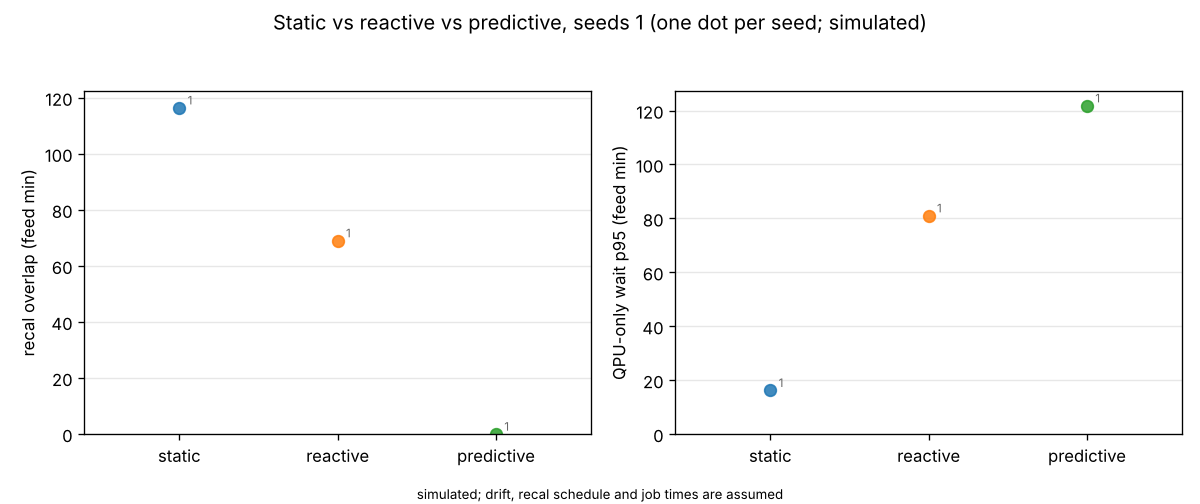
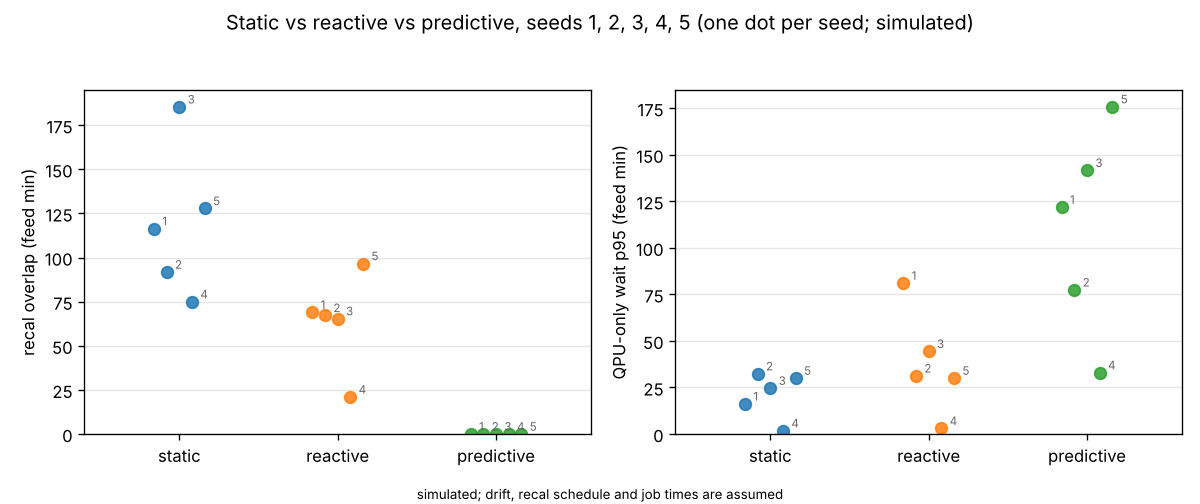
Sweep aggregate, seeds 1-5 (simulated)
Generated by policy/aggregate.py and policy/plot_sweep.py at the end of
make sweep; no manual edits.

diff --git a/results/sweep_table.md b/results/sweep_table.md
@@ -4,17 +4,17 @@ Median across seeds, with [min–max] across seeds. Drift, recal schedule and jo
 
 p95 is the value at index int(0.95·n) of the sorted waits, so for n ≤ 20 it is the maximum: one job. Every QPU job is submitted held under predictive; the gate rows count jobs it kept held (no QPU fitted) at least once.
 
-| Metric | static (seeds 1) | reactive (seeds 1) | predictive (seeds 1) |
+| Metric | static (seeds 1,2,3,4,5) | reactive (seeds 1,2,3,4,5) | predictive (seeds 1,2,3,4,5) |
 |---|---|---|---|
-| Recal-overlap jobs | 6 | 2 | 0 |
-| Recal overlap (feed min) | 116.4 | 69 | 0 |
-| QPU-only wait median (feed min) | 0 | 0 | 2.4 |
-| QPU-only wait p95 (feed min) | 16.2 | 81 | 121.8 |
-| Hybrid wait p95 (feed min) | 1.2 | 6 | 156 |
-| Classical wait p95 (feed min) | 1.2 | 1.2 | 13.2 |
-| Completion median (feed min) | 22.2 | 22.2 | 32.4 |
-| Completion p95 (feed min) | 79.2 | 111.6 | 172.8 |
-| Jobs completed | 55 | 55 | 55 |
-| Submit rejections | 0 | 0 | 0 |
-| Gate: jobs kept held at least once | 0 | 0 | 7 |
-| Gate: re-holds | 0 | 0 | 0 |
+| Recal-overlap jobs | 6 [3–8] | 2 [1–3] | 0 [0–0] |
+| Recal overlap (feed min) | 116.4 [75–185.4] | 67.2 [21–96.6] | 0 [0–0] |
+| QPU-only wait median (feed min) | 0 [0–0.3] | 0 [0–10.2] | 2.4 [1.5–30.6] |
+| QPU-only wait p95 (feed min) | 24.6 [1.8–32.4] | 31.2 [3–81] | 121.8 [33–175.8] |
+| Hybrid wait p95 (feed min) | 9 [1.2–46.2] | 17.4 [1.2–46.2] | 130.8 [23.4–161.4] |
+| Classical wait p95 (feed min) | 1.8 [0.6–12] | 1.8 [0.6–14.4] | 10.8 [1.8–13.2] |
+| Completion median (feed min) | 23.1 [15–39.6] | 24 [16.2–44.4] | 32.4 [20.4–48.6] |
+| Completion p95 (feed min) | 117 [79.2–144.6] | 117 [82.2–144.6] | 172.8 [118.2–223.8] |
+| Jobs completed | 42 [38–55] | 42 [38–55] | 42 [38–55] |
+| Submit rejections | 0 [0–0] | 0 [0–1] | 0 [0–0] |
+| Gate: jobs kept held at least once | 0 [0–0] | 0 [0–0] | 6 [2–7] |
+| Gate: re-holds | 0 [0–0] | 0 [0–0] | 0 [0–1] |
